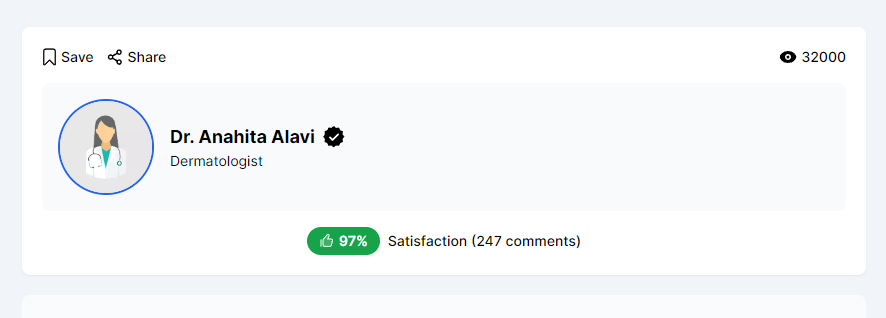
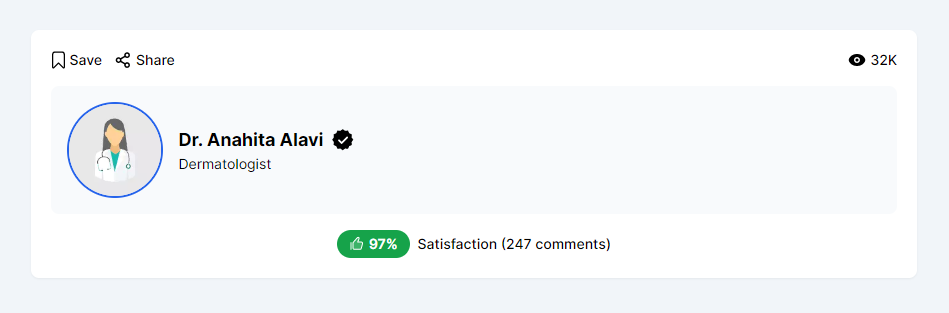
feat: chanfe readme and remove doctor head

diff --git a/src/App.js b/src/App.js
@@ -1,5 +1,4 @@
 import { useEffect, useState } from "react";
-import DoctorHead from "./components/doctorHead";
 import Service from "./components/service";
 import logo from "./logo.svg";
 
@@ -10,6 +9,17 @@ const App = () => {
     fetch("/profile.json")
       .then((response) => response.json())
       .then((data) => setData(data));
+    //   Return Data:
+    //   name,
+    //   family,
+    //   image,
+    //   viewCount,
+    //   isBookmarked,
+    //   profileUrl,
+    //   expertise,
+    //   satisfaction,
+    //   commentsCount,
+    //   waitingTime
   }, []);
 
   if (!data) return null;
@@ -31,7 +41,7 @@ const App = () => {
       </header>
       <main className="container grid grid-cols-3 pt-10 mx-auto gap-7">
         <div className="flex flex-col col-span-2 gap-5">
-          <DoctorHead {...data} />
+          {/* Doctor Head */}
           <div className="bg-white rounded-lg h-96 bg-opacity-60" />
           <div className="h-56 bg-white rounded-lg bg-opacity-60" />
         </div>

diff --git a/README.md b/README.md
@@ -1,5 +1,7 @@
 ## Paziresh24 FrontEnd Assessment
 
+![output](./readmeAssets/output.png)
+
 ### Setup
 
 1. Fork this repository
@@ -28,13 +30,20 @@ npm start
 
 ---
 
-### 🎫 Service Card
+### 🎫 Service Card `src/components/service`
 
 ![service card](./readmeAssets/serviceCard.png)
 
-> Rewrite the section to convert waiting time to waiting time text
+> Refactor the section to convert waiting time to waiting time text
 
 **💥so that there is no need for useEffect and useState.**
+
+| waiting time | waiting time text      |
+| ------------ | ---------------------- |
+| 0            | Less than half an hour |
+| 1            | Less than an hour      |
+| 2            | Less than two hours    |
+| 3            | More than two hours    |
 
 ---
 
@@ -42,9 +51,17 @@ npm start
 
 ![doctor head](./readmeAssets/doctorHead.png)
 
+### Develop the UI of this Card
+
+> Give the required data of this card through the `props` in the `App.js` file
+
+### Perform the logical tasks below.
+
 #### 1. View Count
 
 > Number formatting: 32000 👉 32K
+
+![view count](./readmeAssets/viewcount.png)
 
 #### 2. Save Button
 
@@ -54,15 +71,19 @@ npm start
 
 > By click on the button, its status can be changed as a toggle
 
+![save button](./readmeAssets/savebutton.gif)
+
 #### 3. Share Button
 
 > By click the button, the sharing window will be displayed
 
 The doctor's name should be included in the **title**
 
-![doctor head](./readmeAssets/shareWindow.png)
+![share window](./readmeAssets/shareWindow.png)
 
 #### 4. Conditional rendering for show trust icon
+
+![trust icon](./readmeAssets/trust.png)
 
 | Property      | Condition                            |
 | ------------- | ------------------------------------ |
